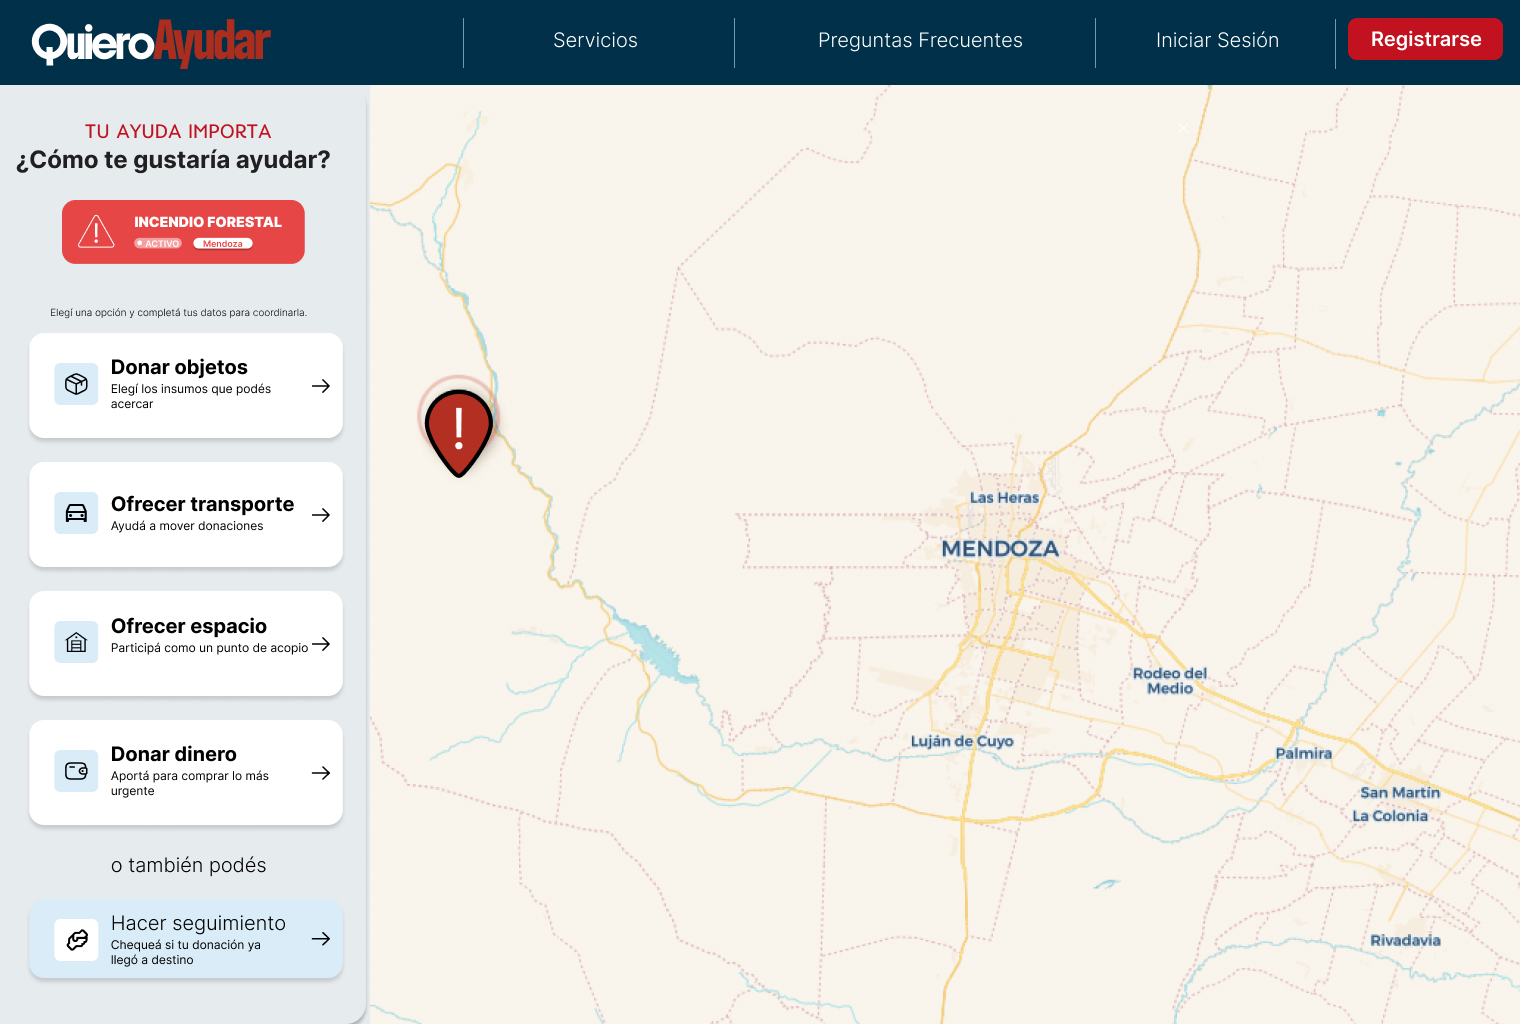
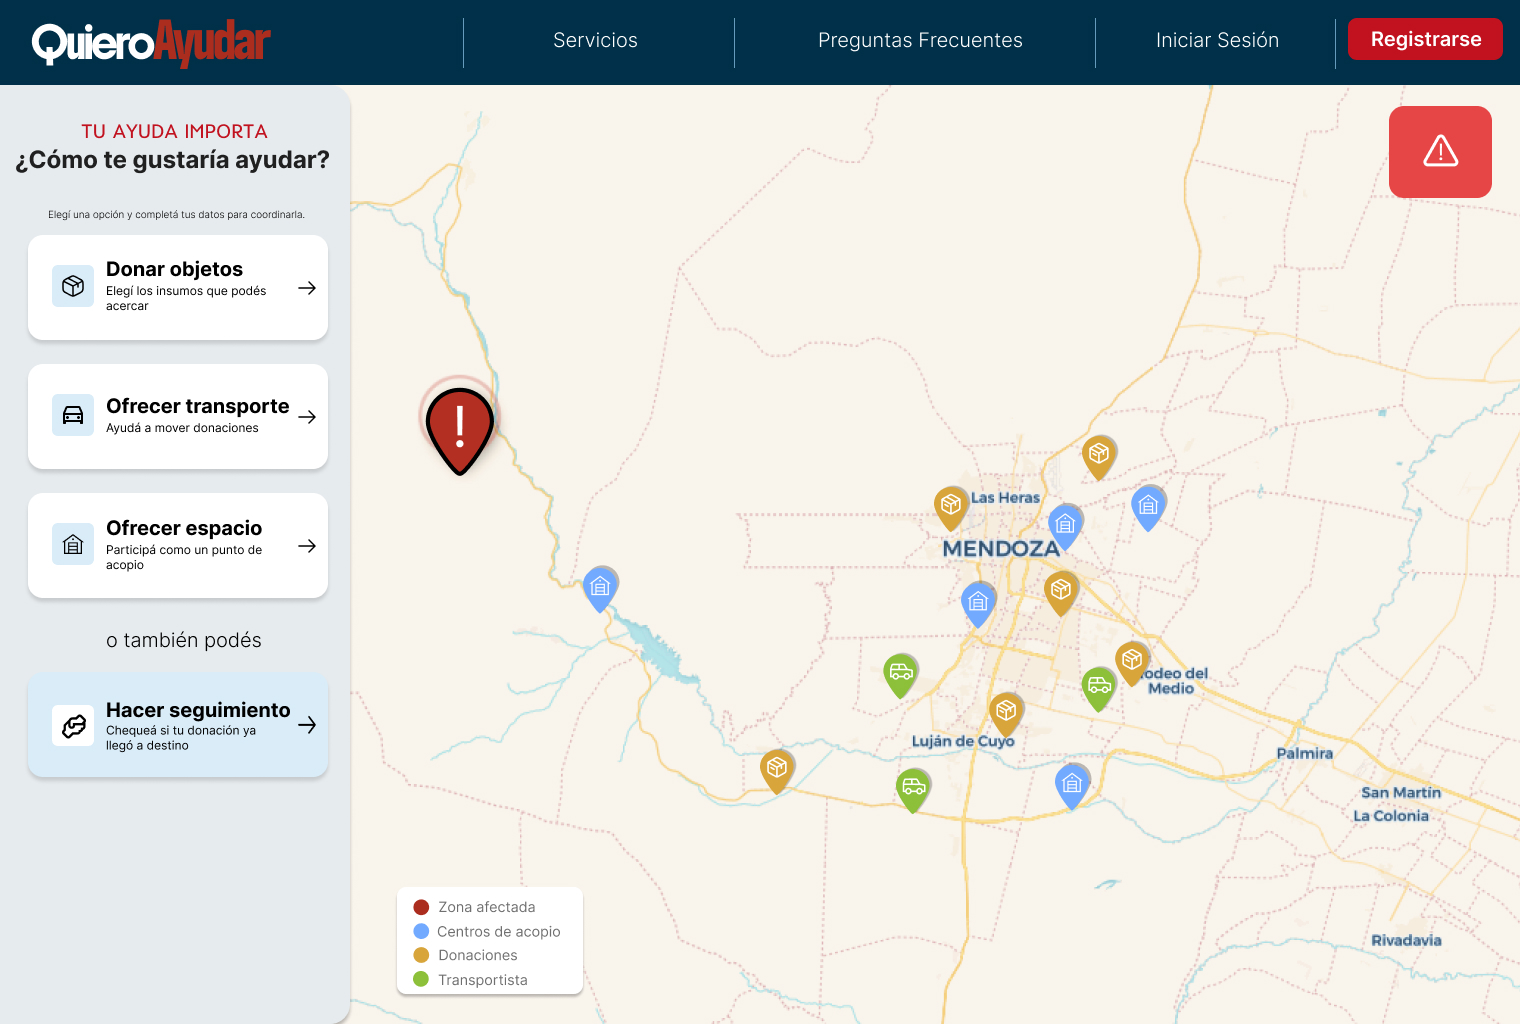
design changes

diff --git a/components/ParaEntidades.tsx b/components/ParaEntidades.tsx
@@ -1,35 +1,25 @@
 import { URL_REGISTRO_ENTIDAD } from "@/lib/enlaces";
 
-const beneficios = [
+const tipos = [
   {
-    titulo: "Creá nuevas emergencias",
-    descripcion:
-      "Activá una emergencia en minutos y la comunidad la ve al instante en el mapa.",
+    titulo: "Entes oficiales",
+    quienes: "Defensa Civil, bomberos, municipios",
+    tareas: [
+      "Crean emergencias",
+      "Publican y actualizan los insumos que faltan",
+      "Certifican centros de acopio",
+      "Consultan sus estadísticas",
+    ],
   },
   {
-    titulo: "Pedí exactamente lo que falta",
-    descripcion:
-      "Informá y actualizá la lista de insumos requeridos para que nada sobre y nada falte.",
-  },
-  {
-    titulo: "Certificá centros de acopio",
-    descripcion:
-      "Validá los puntos de recepción para que la gente done con confianza.",
-  },
-  {
-    titulo: "Consultá tus estadísticas",
-    descripcion:
-      "Mirá cuánto se recibió, qué se entregó y dónde, para decidir con datos.",
-  },
-  {
-    titulo: "Ahorrá tiempo y transporte",
-    descripcion:
-      "Coordiná donantes, transportistas y centros desde un solo lugar y llegá antes.",
-  },
-  {
-    titulo: "Toda la difusión en un mismo lugar",
-    descripcion:
-      "Un único canal oficial para tus pedidos, en lugar de mensajes dispersos en redes.",
+    titulo: "Organizaciones",
+    quienes: "Clubes, parroquias, ONG, comedores",
+    tareas: [
+      "Abren un centro de acopio",
+      "Reciben donaciones de todo tipo",
+      "Consiguen voluntarios y transporte",
+      "Difunden todo en un mismo lugar",
+    ],
   },
 ];
 
@@ -37,44 +27,37 @@ export default function ParaEntidades() {
   return (
     <section id="para-entidades" className="scroll-mt-16 bg-marino text-white">
       <div className="mx-auto max-w-6xl px-4 py-20">
-        <p className="font-acento tracking-wide text-celeste uppercase">
+        <p className="tracking-wide text-celeste uppercase">
           Para entidades
         </p>
         <h2 className="mt-2 max-w-3xl text-3xl font-bold sm:text-4xl">
-          ¿Sos Defensa Civil, bomberos o una organización que responde ante
-          emergencias?
+          Menos tiempo coordinando, más ayuda llegando
         </h2>
-        <p className="mt-4 max-w-2xl text-lg text-white/80">
-          Quiero Ayudar es la herramienta para coordinar la ayuda cuando más se
-          necesita. Registrá tu entidad y gestioná toda la respuesta solidaria
-          desde un solo panel.
-        </p>
 
-        <ul className="mt-12 grid gap-4 sm:grid-cols-2 lg:grid-cols-3">
-          {beneficios.map((b, i) => (
-            <li
-              key={b.titulo}
-              className="rounded-xl border border-white/10 bg-white/5 p-6"
+        <div className="mt-10 grid gap-6 md:grid-cols-2">
+          {tipos.map((tipo) => (
+            <article
+              key={tipo.titulo}
+              className="rounded-xl border border-white/10 bg-white/5 p-8"
             >
-              <span className="font-acento text-sm text-celeste">
-                {String(i + 1).padStart(2, "0")}
-              </span>
-              <h3 className="mt-2 text-xl font-bold">{b.titulo}</h3>
-              <p className="mt-2 text-white/75">{b.descripcion}</p>
-            </li>
+              <h3 className="text-2xl font-bold">{tipo.titulo}</h3>
+              <p className="mt-1 text-celeste">{tipo.quienes}</p>
+              <ul className="mt-6 space-y-3">
+                {tipo.tareas.map((tarea) => (
+                  <li key={tarea} className="flex gap-3">
+                    <span aria-hidden className="font-bold text-rojo">
+                      ✓
+                    </span>
+                    {tarea}
+                  </li>
+                ))}
+              </ul>
+            </article>
           ))}
-        </ul>
+        </div>
 
-        <div className="mt-12 flex flex-col items-start gap-6 rounded-xl bg-crema p-8 text-tinta sm:flex-row sm:items-center sm:justify-between">
-          <div>
-            <h3 className="text-2xl font-bold">
-              Sumá tu entidad a la red
-            </h3>
-            <p className="mt-1 text-tinta/75">
-              El registro es gratuito. Cuanto antes estés, más rápido vas a
-              poder responder.
-            </p>
-          </div>
+        <div className="mt-10 flex flex-col items-start gap-6 rounded-xl bg-crema p-8 text-tinta sm:flex-row sm:items-center sm:justify-between">
+          <h3 className="text-2xl font-bold">Sumá tu entidad a la red</h3>
           <a
             href={URL_REGISTRO_ENTIDAD}
             className="shrink-0 rounded-md bg-rojo px-6 py-3 font-semibold text-white transition-colors hover:bg-bordo"

diff --git a/components/PorQueSumarte.tsx b/components/PorQueSumarte.tsx
@@ -1,44 +1,30 @@
-const razones = [
-  {
-    titulo: "Tu ayuda llega a destino",
-    descripcion:
-      "Cada donación tiene un código QR que se escanea en cada paso: sabés cuándo está en camino y cuándo fue entregada.",
-  },
-  {
-    titulo: "Ayudás con lo que hace falta",
-    descripcion:
-      "Los centros de acopio publican qué insumos necesitan, para que nada sobre y nada falte.",
-  },
-  {
-    titulo: "Todo es transparente",
-    descripcion:
-      "Nuestras estadísticas son públicas y las podés consultar antes de donar.",
-  },
+const preguntas = [
+  { pregunta: "¿Qué necesitan?", respuesta: "Los entes oficiales publicarán una lista de insumos que mantendrán actualizada." },
+  { pregunta: "¿Dónde lo llevo?", respuesta: "Podrás visualizar los centros de acopio cerca tuyo y alguien lo puede llevar por vos." },
+  { pregunta: "¿Si no puedo donar?", respuesta: "Podrás ofrecerte como mano de obra o transportista para llevar las donaciones a destino" },
 ];
 
 export default function PorQueSumarte() {
   return (
     <section className="bg-crema">
-      <div className="mx-auto max-w-6xl px-4 py-20">
-        <h2 className="max-w-2xl text-3xl font-bold sm:text-4xl">
-          Una red de personas que no mira para otro lado
+      <div className="mx-auto max-w-6xl px-4 py-16 text-center">
+        <h2 className="text-3xl font-bold sm:text-4xl">
+          Querés ayudar. <span className="text-rojo">Nosotros te decimos cómo.</span>
         </h2>
-        <p className="mt-4 max-w-2xl text-lg text-tinta/75">
-          Vecinos, instituciones y transportistas que se organizan para que la
-          ayuda llegue rápido y a quien la necesita. Sumarte es simple, y cada
-          aporte cuenta.
-        </p>
-        <ul className="mt-12 grid gap-6 md:grid-cols-3">
-          {razones.map((razon) => (
+        <ul className="mt-10 grid gap-4 md:grid-cols-3">
+          {preguntas.map((p) => (
             <li
-              key={razon.titulo}
-              className="rounded-xl border-t-4 border-rojo bg-crema-claro p-6 shadow-sm"
+              key={p.pregunta}
+              className="rounded-xl border-t-4 border-rojo bg-crema-claro px-6 py-8 shadow-sm"
             >
-              <h3 className="text-xl font-bold">{razon.titulo}</h3>
-              <p className="mt-2 text-tinta/75">{razon.descripcion}</p>
+              <h3 className="text-2xl font-bold">{p.pregunta}</h3>
+              <p className="mt-2 text-lg text-tinta/75">{p.respuesta}</p>
             </li>
           ))}
         </ul>
+        <p className="mt-10 font-light text-lg tracking-wide text-marino uppercase">
+          Una red autogestiva y sin fines de lucro
+        </p>
       </div>
     </section>
   );

diff --git a/components/ComoFunciona.tsx b/components/ComoFunciona.tsx
@@ -3,24 +3,20 @@ import { conBase } from "@/lib/rutas";
 
 const pasos = [
   {
-    titulo: "Elegí una emergencia",
-    descripcion:
-      "En el mapa ves las emergencias activas y qué necesita cada zona.",
+    titulo: "Se publica la emergencia",
+    descripcion: "Un ente oficial informa qué insumos hacen falta.",
   },
   {
-    titulo: "Decidí cómo ayudar",
-    descripcion:
-      "Doná objetos o dinero, ofrecé transporte o prestá tu espacio como punto de acopio.",
+    titulo: "Elegís qué llevar",
+    descripcion: "Ves la lista y el centro de acopio más cercano.",
   },
   {
-    titulo: "Coordiná la entrega",
-    descripcion:
-      "Completá tus datos y te indicamos el centro de acopio o la ruta más cercana.",
+    titulo: "Lo llevás o te ayudan",
+    descripcion: "Si no podés moverte, un transportista lo lleva.",
   },
   {
-    titulo: "Seguí tu donación",
-    descripcion:
-      "Mostrá tu QR al entregar y seguí el recorrido: en espera, en camino, entregado.",
+    titulo: "Seguís tu donación",
+    descripcion: "Con un QR sabés cuándo llegó.",
   },
 ];
 
@@ -28,11 +24,11 @@ export default function ComoFunciona() {
   return (
     <section id="como-funciona" className="scroll-mt-16 bg-crema-claro">
       <div className="mx-auto max-w-6xl px-4 py-20">
-        <p className="font-acento tracking-wide text-rojo uppercase">
+        <p className="tracking-wide text-rojo uppercase">
           Cómo funciona
         </p>
         <h2 className="mt-2 text-3xl font-bold sm:text-4xl">
-          De las ganas de ayudar a la ayuda entregada
+          De tus manos a quien lo necesita
         </h2>
         <div className="mt-12 grid items-center gap-12 lg:grid-cols-[1fr_1.4fr]">
           <ol className="space-y-6">

diff --git a/components/Recursos.tsx b/components/Recursos.tsx
@@ -6,30 +6,26 @@ import {
 } from "@/components/TarjetaRecurso";
 
 const entidades = {
-  titulo: "Conocé las entidades registradas",
-  descripcion:
-    "Encontrá puntos de donación y centros de acopio cercanos, y conocé cómo podés colaborar cuando se active una emergencia.",
+  titulo: "Entidades registradas",
+  descripcion: "Defensa Civil y bomberos de cada provincia.",
   icono: { src: "/img/icono-entidades.png", ancho: 120, alto: 120 },
 };
 
 const cuidados = {
-  titulo: "Informate sobre los cuidados ante una catástrofe",
-  descripcion:
-    "Conocé las medidas de seguridad que podés anticipar para protegerte ante un evento.",
+  titulo: "Cuidados ante una catástrofe",
+  descripcion: "Qué hacer antes, durante y después.",
   icono: { src: "/img/icono-cuidados.png", ancho: 108, alto: 108 },
 };
 
 const newsletter = {
-  titulo: "Suscribite a nuestro Newsletter",
-  descripcion:
-    "Enterate a tiempo de los pedidos y sé el primero en ayudar. No enviaremos SPAM.",
+  titulo: "Newsletter",
+  descripcion: "Enterate a tiempo de cada pedido. Sin spam.",
   icono: { src: "/img/icono-newsletter.png", ancho: 104, alto: 104 },
 };
 
 const estadisticas = {
-  titulo: "Consultá nuestras estadísticas",
-  descripcion:
-    "Nuestros datos son transparentes y los podés leer antes de realizar tu donación.",
+  titulo: "Estadísticas",
+  descripcion: "Datos abiertos para donar con confianza.",
   icono: { src: "/img/icono-estadisticas.png", ancho: 120, alto: 120 },
 };
 

diff --git a/components/Header.tsx b/components/Header.tsx
@@ -4,7 +4,6 @@ import { URL_REGISTRO } from "@/lib/enlaces";
 
 const links = [
   { href: "/#como-funciona", texto: "Cómo funciona" },
-  { href: "/#formas-de-ayudar", texto: "Formas de ayudar" },
   { href: "/#para-entidades", texto: "Para entidades" },
   { href: "/#recursos", texto: "Recursos" },
 ];
@@ -12,7 +11,7 @@ const links = [
 export default function Header() {
   return (
     <header className="sticky top-0 z-20 bg-marino">
-      <div className="mx-auto flex h-16 max-w-6xl items-center justify-between gap-6 px-4 pt-6">
+      <div className="mx-auto flex h-16 max-w-6xl items-center justify-between gap-6 px-4 py-10">
         <Link href="/" className="text-xl sm:text-2xl">
           <Logo />
         </Link>
@@ -31,7 +30,7 @@ export default function Header() {
           href={URL_REGISTRO}
           className="rounded-md bg-rojo px-4 py-2 text-sm font-semibold text-white transition-colors hover:bg-bordo"
         >
-          Registrarse
+          Unirme
         </a>
       </div>
     </header>

diff --git a/components/Hero.tsx b/components/Hero.tsx
@@ -14,9 +14,8 @@ export default function Hero() {
             <span className="text-crema">nadie ayuda solo.</span>
           </h1>
           <p className="mt-6 max-w-xl text-lg text-white/80">
-            Quiero Ayudar conecta a quienes quieren donar, transportar o prestar
-            un espacio con las comunidades afectadas por una catástrofe. Vos
-            elegís cómo ayudar; nosotros te decimos dónde hace falta.
+            Te decimos qué hace falta, dónde llevarlo y quién te ayuda a
+            moverlo.
           </p>
           <div className="mt-10 flex flex-wrap gap-4">
             <a

diff --git a/app/page.tsx b/app/page.tsx
@@ -1,7 +1,6 @@
 import Hero from "@/components/Hero";
 import PorQueSumarte from "@/components/PorQueSumarte";
 import ComoFunciona from "@/components/ComoFunciona";
-import FormasDeAyudar from "@/components/FormasDeAyudar";
 import ParaEntidades from "@/components/ParaEntidades";
 import Recursos from "@/components/Recursos";
 import Sumate from "@/components/Sumate";
@@ -12,7 +11,6 @@ export default function Home() {
       <Hero />
       <PorQueSumarte />
       <ComoFunciona />
-      <FormasDeAyudar />
       <ParaEntidades />
       <Recursos />
       <Sumate />

diff --git a/app/entidades/page.tsx b/app/entidades/page.tsx
@@ -14,7 +14,7 @@ export default function EntidadesPage() {
       <EncabezadoPagina
         acento="Entidades registradas"
         titulo="Quienes están en la primera línea"
-        descripcion="Defensa Civil y cuerpos de bomberos de todo el país que coordinan la respuesta cuando se activa una emergencia. Conocelos y sabé a quién llamar."
+        descripcion="Los entes oficiales que publican emergencias e insumos. Sabé a quién llamar."
       />
       <div className="mx-auto max-w-6xl px-4 py-16">
         <ListaEntidades />

diff --git a/app/estadisticas/page.tsx b/app/estadisticas/page.tsx
@@ -41,7 +41,7 @@ export default function EstadisticasPage() {
       <EncabezadoPagina
         acento="Transparencia"
         titulo="Nuestras estadísticas"
-        descripcion="Cada donación cuenta y se puede seguir. Estos son los números de lo que logramos juntos en los últimos 12 meses."
+        descripcion="Lo que logramos juntos en los últimos 12 meses."
       />
       <div className="mx-auto max-w-6xl space-y-6 px-4 py-16">
         <ul className="grid grid-cols-2 gap-4 lg:grid-cols-4">

diff --git a/app/informate/page.tsx b/app/informate/page.tsx
@@ -14,7 +14,7 @@ export default function InformatePage() {
       <EncabezadoPagina
         acento="Informate"
         titulo="Cuidados ante una catástrofe"
-        descripcion="Conocé las medidas de seguridad que podés anticipar para protegerte a vos y a tu familia. Estar preparado también es ayudar."
+        descripcion="Qué hacer antes, durante y después. Estar preparado también es ayudar."
       />
       <div className="mx-auto max-w-6xl px-4 py-16">
         <PestanasCuidados />

diff --git a/components/Sumate.tsx b/components/Sumate.tsx
@@ -9,8 +9,7 @@ export default function Sumate() {
           <span className="text-crema">Tu ayuda puede estar lista.</span>
         </h2>
         <p className="mt-6 max-w-2xl text-lg text-white/80">
-          Registrate hoy y te avisamos cuando tu comunidad te necesite. Ser
-          parte lleva un minuto; el impacto dura mucho más.
+          Sumate hoy y ya vas a estar un paso adelante
         </p>
         <a
           href={URL_REGISTRO}
